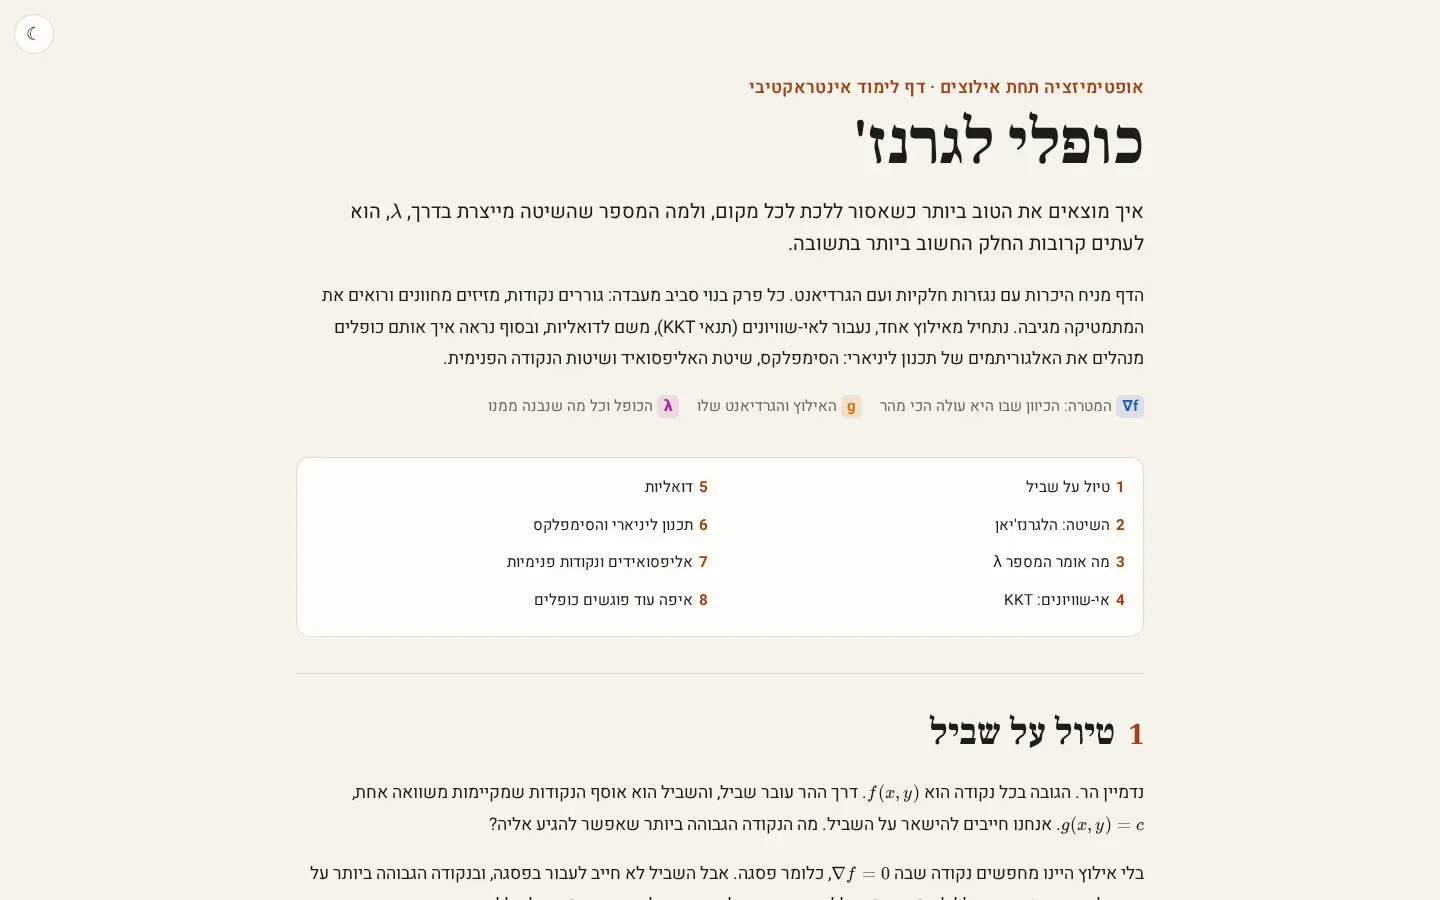
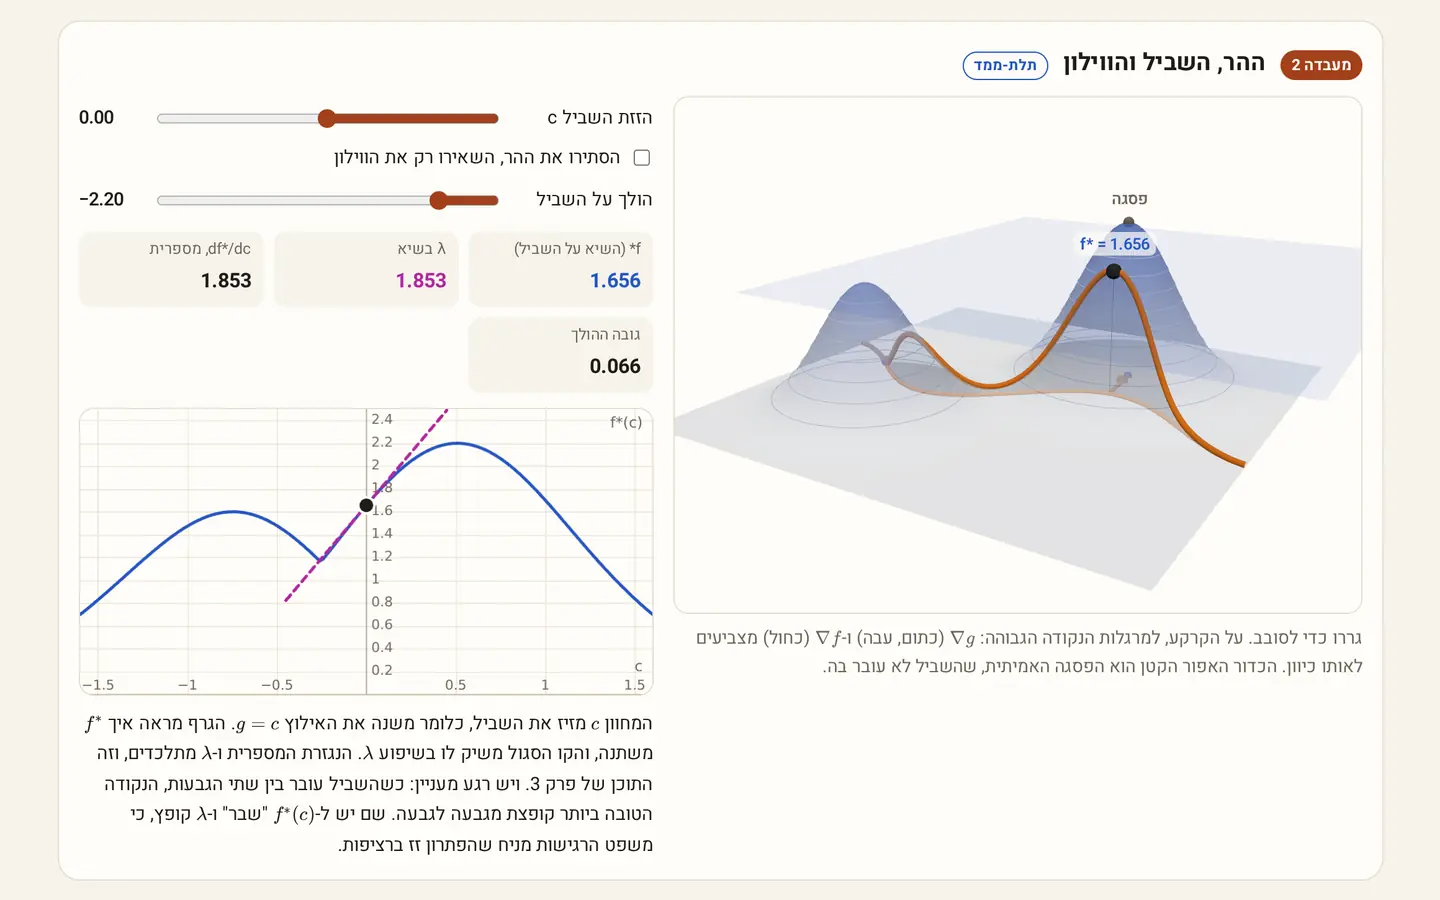
דף הפרויקטים: תמונה חדשה לכופלי לגרנז' (מעבדת ההר, השביל והווילון בתלת-ממד), ו-frame/dpr ב-shots.py לחיתוך צמוד סביב אלמנט

diff --git a/vibe_coding/projects_page/shots.py b/vibe_coding/projects_page/shots.py
@@ -35,8 +35,10 @@ OUT_SIZE = (640, 400)
 # types into a field, "click" presses buttons (a missing one is skipped),
 # "keys" plays keystrokes, then "wait" ms for canvases and WebGL to settle.
 # "gpu" runs the page in Chrome on the real graphics card, for scenes too heavy
-# for the software renderer. The point is a shot of the app doing its thing,
-# not its start screen.
+# for the software renderer. "frame" scrolls an element into view and crops the
+# shot to it (padded out to 16:10), shot at "dpr" device pixels so the crop
+# stays sharp. The point is a shot of the app doing its thing, not its start
+# screen.
 ARROWS = ["ArrowUp", "ArrowLeft", "ArrowDown", "ArrowRight"]
 TWEAKS = {
     "2048": {"keys": ARROWS * 25, "wait": 1200},
@@ -50,6 +52,7 @@ TWEAKS = {
     "jetbike_game": {"gpu": True, "settle": 12000, "keys": ["Enter"], "wait": 8000},
     "optimus": {"click": ["#go"], "wait": 6000},
     "roadster": {"click": ["#go"], "wait": 5000},
+    "lagrange": {"frame": "#lab-mtn", "dpr": 2, "wait": 3000},
 }
 
 
@@ -86,9 +89,22 @@ def capture(page, url, tweak):
     for key in tweak.get("keys", []):
         page.keyboard.press(key)
         page.wait_for_timeout(150)
+    if "frame" in tweak:
+        page.locator(tweak["frame"]).evaluate("e => e.scrollIntoView({block: 'center', behavior: 'instant'})")
     page.wait_for_timeout(tweak.get("wait", 2500))
-    big = Image.open(io.BytesIO(page.screenshot(timeout=90000))).convert("RGB")
+    clip = frame_clip(page.locator(tweak["frame"]).bounding_box()) if "frame" in tweak else None
+    big = Image.open(io.BytesIO(page.screenshot(clip=clip, timeout=90000))).convert("RGB")
+    big = big.resize((VIEWPORT["width"], VIEWPORT["height"]), Image.LANCZOS)
     return webp(big.resize(OUT_SIZE, Image.LANCZOS), 80), webp(big, 74)
+
+
+def frame_clip(box, pad=16):
+    """The element's box plus a margin, widened or heightened to the viewport's 16:10."""
+    w, h = box["width"] + 2 * pad, box["height"] + 2 * pad
+    ratio = VIEWPORT["width"] / VIEWPORT["height"]
+    w, h = max(w, h * ratio), max(h, w / ratio)
+    cx, cy = box["x"] + box["width"] / 2, box["y"] + box["height"] / 2
+    return {"x": cx - w / 2, "y": cy - h / 2, "width": w, "height": h}
 
 
 def webp(img, quality):
@@ -128,13 +144,15 @@ def main():
         gpu = None
         for a, href, out in todo:
             url = href if href.startswith("http") else base + href
-            if TWEAKS.get(a, {}).get("gpu"):
+            tweak = TWEAKS.get(a, {})
+            opts = {"viewport": VIEWPORT, "locale": "he-IL", "device_scale_factor": tweak.get("dpr", 1)}
+            if tweak.get("gpu"):
                 gpu = gpu or pw.chromium.launch(channel="chrome", args=GPU_ARGS)
-                page = gpu.new_page(viewport=VIEWPORT, locale="he-IL")
+                page = gpu.new_page(**opts)
             else:
-                page = browser.new_page(viewport=VIEWPORT, locale="he-IL")
+                page = browser.new_page(**opts)
             try:
-                small, big = capture(page, url, TWEAKS.get(a, {}))
+                small, big = capture(page, url, tweak)
                 out.write_bytes(small)
                 (build.SHOTS_BIG / out.name).write_bytes(big)
                 print(f"  ✓ {a}  ({len(small) // 1024}KB, big {len(big) // 1024}KB)")
